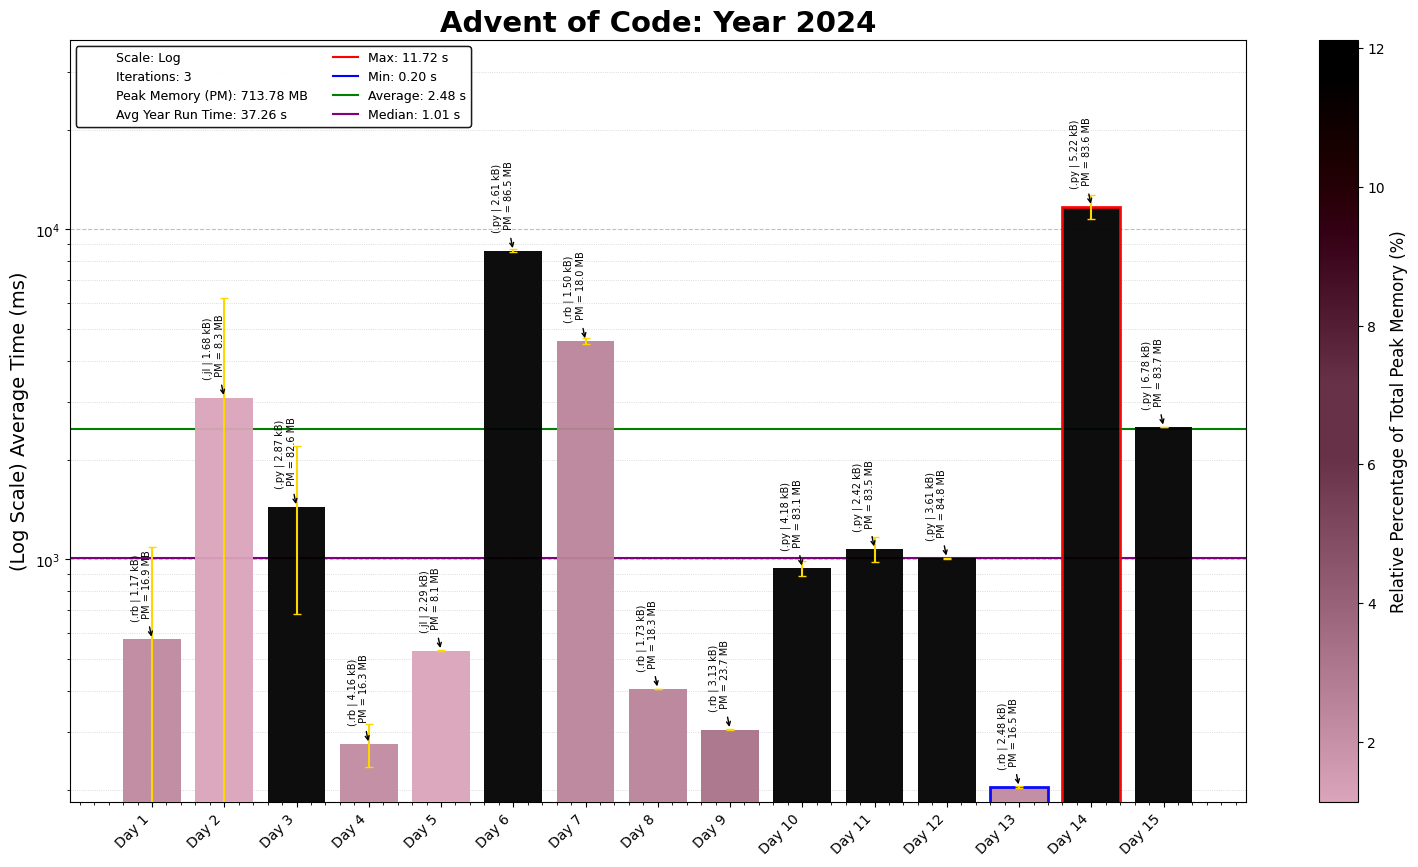
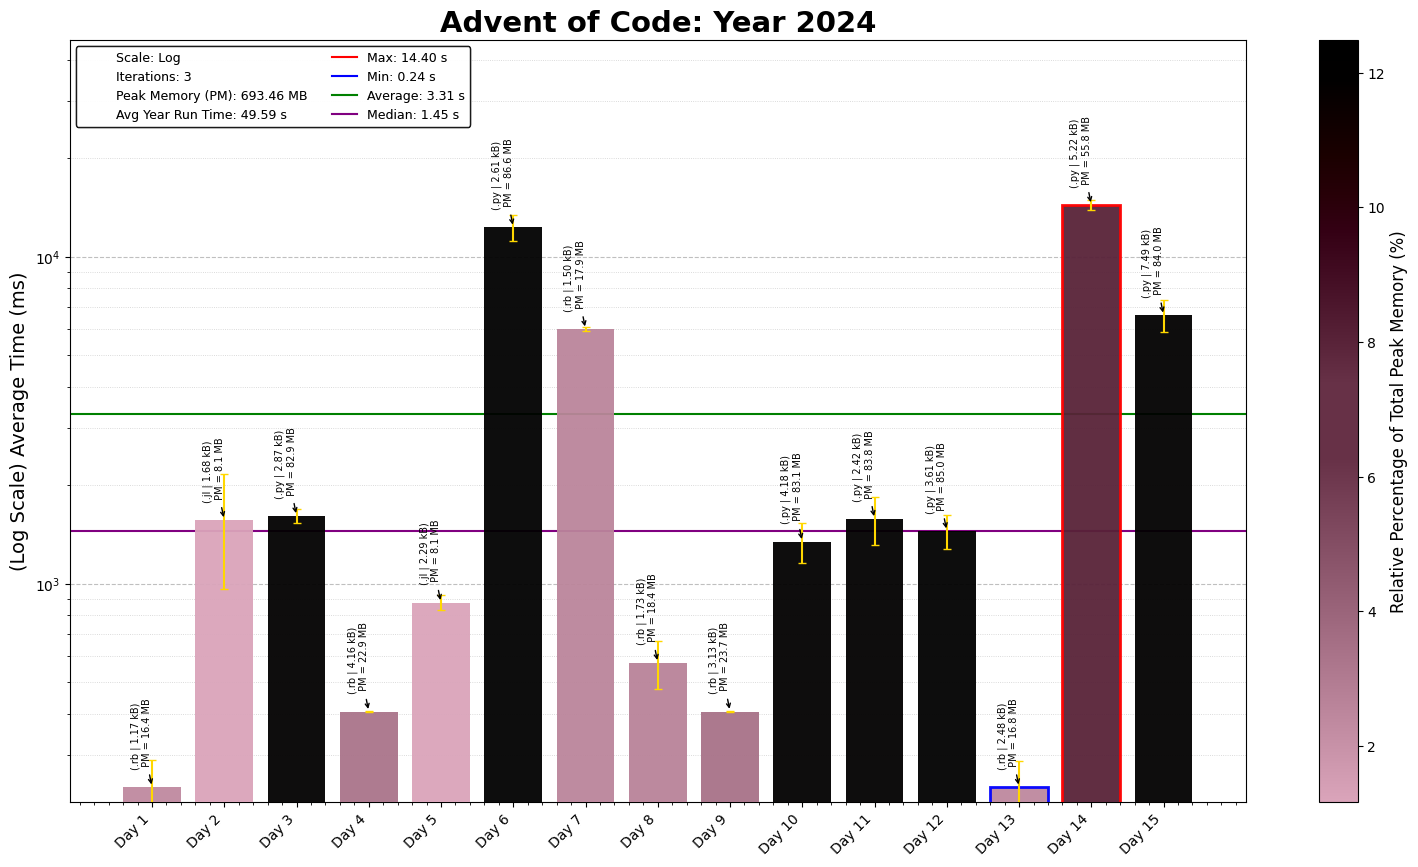
2024 Day 15 P2

diff --git a/2024/15/2024Day15.py b/2024/15/2024Day15.py
@@ -2,7 +2,7 @@
 Solution Started: Dec 15, 2024
 Puzzle Link: https://adventofcode.com/2024/day/15
 Solution by: abbasmoosajee07
-Brief: [Code/Problem Description]
+Brief: [Moving Boxes w/ Robots]
 """
 
 #!/usr/bin/env python3
@@ -23,96 +23,134 @@ with open(D15_file_path) as file:
 def parse_input(input):
     map_input = input[0].split('\n')
     movements = list(input[1].replace('\n',''))
-    grid_map  = np.array([list(row) for row in map_input], dtype=object)
-    total_rows, total_cols = len(grid_map), len(grid_map[0])
-    empty_map = [['.' for _ in range(total_cols)] for _ in range(total_rows)]
-    box_count = 0
-
+    standard_map  = np.array([list(row) for row in map_input], dtype=object)
+    total_rows, total_cols = len(standard_map), len(standard_map[0])
+    extended_map = [['.' for _ in range(total_cols)] for _ in range(total_rows)]
     # Assuming start and end is on the border
-    for row_index, row in enumerate(grid_map):
+    for row_index, row in enumerate(standard_map):
         for col_index, cell in enumerate(row):
-            if grid_map[row_index][col_index] == '#':
-                empty_map[row_index][col_index] = grid_map[row_index][col_index]
             if cell == '@':
-                robot = (row_index, col_index)
+                start_p1 = (row_index, col_index)
+            if cell == '#':
+                extended_map[row_index][col_index] = '##'
             if cell == 'O':
-                box_count += 1
+                extended_map[row_index][col_index] = '[]'
+            if cell == '.':
+                extended_map[row_index][col_index] = '..'
+            if cell == '@':
+                extended_map[row_index][col_index] = '@.'
+    expanded_map = np.array([list(''.join(row)) for row in extended_map], dtype=object)
 
-
-    return empty_map, grid_map, movements, box_count, robot
+    start_p2 = (start_p1[0],2*start_p1[1])
+    return expanded_map, standard_map, start_p1, start_p2, movements
 
 def calculate_box_GPS(map):
     gps_sum = 0
     for row_no, row in enumerate(map):
         for col_no, char in enumerate(row):
-            if char == 'O':
+            if char in ['O','[']:
                 box_gps = (100 * row_no) + col_no
-                # print(f"{row_no=}, {col_no=}, {box_gps=}")
                 gps_sum += box_gps
     return gps_sum
 
+def move_boxes(map, robot_pos, dr, dc):
+
+    new_map = copy.deepcopy(map)
+    robot_stop = (robot_pos[0] + dr, robot_pos[1] + dc)
+    box_dict = {}
+
+    # Identify the target row/column and collect boxes in the path
+    if dr == 0 and abs(dc) == 1:  # Horizontal movement
+        target_idx = robot_pos[0]
+        target_row = map[target_idx]
+        if dc == 1:
+            row_end = len(target_row)
+        elif dc == -1:
+            row_end = 0
+        for col_idx in range(robot_pos[1] + dc, row_end, dc):
+            char = target_row[col_idx]
+            if char in ['O','[',']']:
+                box_dict[(target_idx, col_idx)] = char
+            elif char in ['#', '@']:
+                break
+            else:
+                break
+
+    elif dc == 0 and abs(dr) == 1:  # Vertical movement
+        def move_box_columns(map, box, dr):
+            box_columns = {}
+            row, col = box
+            new_row = row + dr
+
+            # Ensure movement is within bounds
+            if 0 <= new_row < len(map):
+                # Check for the trailing part of the box (`[`, `]`)
+                if map[new_row][col] == ']':  # Box's right side
+                    adjacent_pos = (new_row, col - 1)  # Left side of the box
+                    box_columns[(new_row, col)] = map[new_row][col]
+                    box_columns[adjacent_pos] = map[adjacent_pos]
+                elif map[new_row][col] == '[':  # Box's left side
+                    adjacent_pos = (new_row, col + 1)  # Right side of the box
+                    box_columns[(new_row, col)] = map[new_row][col]
+                    box_columns[adjacent_pos] = map[adjacent_pos]
+                elif map[new_row][col] == 'O':  # Single box
+                    box_columns[(new_row, col)] = map[new_row][col]
+
+            return box_columns
+
+        # Add the robot's current position and the item at that position to box_dict
+        box_dict[robot_stop] = map[robot_stop[0]][robot_stop[1]]
+
+        # Move the adjacent box and update the box dictionary
+        adjacent_box = move_box_columns(map, robot_pos, dr)
+        box_dict.update(adjacent_box)
+        check_boxes = list(box_dict.keys())
+        # print(check_boxes)
+        # Process each box in box_check
+        while check_boxes:  # Use a while loop since we'll dynamically modify box_check
+            # Get the first box position to process
+            test_box = check_boxes.pop(0)
+
+            # Move the box in the column (the function should return updated positions for boxes)
+            box_column = move_box_columns(map, test_box, dr)
+
+            # Extend box_check with new box positions from box_column
+            check_boxes.extend(box_column.keys())
+
+            # Update the box_dict with the new positions of the boxes
+            box_dict.update(box_column)
+
+        # print(box_dict)
+    # Check if the last box can move
+    if box_dict:
+        # Get the last box's position from the dictionary
+        last_pos = list(box_dict.keys())[-1]  # Get the last key (position)
+        last_row, last_col = last_pos
+        next_row, next_col = last_row + dr, last_col + dc
+
+        # Check if the next position is within bounds
+        if not (0 <= next_row < len(map) and 0 <= next_col < len(map[0])):
+            return new_map, robot_pos  # Path is out of bounds
+
+        # Check if the path is blocked
+        if map[next_row][next_col] != '.':
+            return new_map, robot_pos  # Path is blocked
+
+        for (box_row, box_col) in list(box_dict.keys())[::-1]:
+            wall_check = map[box_row + dr][box_col + dc]
+            if wall_check ==  '#':
+                return new_map, robot_pos
+        # Move boxes
+        for (box_row, box_col) in list(box_dict.keys())[::-1]:
+            new_map[box_row + dr][box_col + dc] = box_dict[(box_row,box_col)]  # Move box forward
+            new_map[box_row][box_col] = '.'  # Clear old box position
+        # Update robot position
+        new_map[robot_pos[0]][robot_pos[1]] = '.'  # Clear old position
+        new_map[robot_stop[0]][robot_stop[1]] = '@'  # Move robot to the new position
+
+    return new_map, robot_stop
+
 def move_robot(map, movement, robot_start):
-
-    def move_boxes(map, robot_pos, dr, dc):
-            new_map = copy.deepcopy(map)
-            robot_stop = (robot_pos[0] + dr, robot_pos[1] + dc)
-            box_list = []
-
-            # Identify the target row/column and collect boxes in the path
-            if dr == 0 and abs(dc) == 1:  # Horizontal movement
-                target_idx = robot_pos[0]
-                target_row = map[target_idx]
-                if dc == 1:
-                    row_end = len(target_row)
-                elif dc == -1:
-                    row_end = 0
-                for col_idx in range(robot_pos[1] + dc, row_end, dc):
-                    char = target_row[col_idx]
-                    if char == 'O':
-                        box_list.append((target_idx, col_idx))
-                    elif char in ['#', '@', 'O']:
-                        break
-                    else:
-                        break
-
-            elif dc == 0 and abs(dr) == 1:  # Vertical movement
-                target_idx = robot_pos[1]
-                target_col = [row[target_idx] for row in map]
-                if dr == 1:
-                    col_end = len(target_col)
-                elif dr == -1:
-                    col_end = 0
-                for row_idx in range(robot_pos[0] + dr, col_end, dr):
-                    char = target_col[row_idx]
-                    if char == 'O':
-                        box_list.append((row_idx, target_idx))
-                    elif char in ['#', '@', 'O']:
-                        break
-                    else:
-                        break
-
-            # Check if the last box can move
-            if box_list:
-                last_row, last_col = box_list[-1]
-                next_row, next_col = last_row + dr, last_col + dc
-
-                if not (0 <= next_row < len(map) and 0 <= next_col < len(map[0])):
-                    return new_map, robot_pos  # Path is out of bounds
-
-                if map[next_row][next_col] != '.':
-                    return new_map, robot_pos  # Path is blocked
-
-                # Move boxes
-                for box_row, box_col in reversed(box_list):
-                    new_map[box_row + dr][box_col + dc] = 'O'  # Move box forward
-                    new_map[box_row][box_col] = '.'  # Clear old box position
-
-            # Update robot position
-            new_map[robot_pos[0]][robot_pos[1]] = '.'  # Clear old position
-            new_map[robot_stop[0]][robot_stop[1]] = '@'  # Move robot to the new position
-
-            return new_map, robot_stop
-
     # Define movement directions: (row_delta, col_delta)
     DIRECTIONS = {'^': (-1, 0), '>': (0, 1), 'v': (1, 0), '<': (0, -1)}
     dr, dc = DIRECTIONS[movement]
@@ -124,41 +162,25 @@ def move_robot(map, movement, robot_start):
             map[new_row][new_col] = '@'  # Mark new robot position
             map[robot_start[0]][robot_start[1]] = '.'  # Clear old position
             return map, (new_row, new_col)
-        elif map[new_row][new_col] == 'O':  # Special action on obstacle
+        elif map[new_row][new_col] in ['O','[',']']:  # Special action on obstacle
             new_map, robot_stop = move_boxes(map, robot_start, dr, dc)
             return new_map, robot_stop  # Reset to empty map
 
     # Return the unchanged map and position if the move is invalid
     return map, robot_start
 
-test_input_1 = ['########\n#..O.O.#\n##@.O..#\n#...O..#\n#.#.O..#\n#...O..#\n#......#\n########', '<^^>>>vv<v>>v<<']
-
-test_input_2 = ['##########\n#..O..O.O#\n#......O.#\n#.OO..O.O#\n#..O@..O.#\n#O#..O...#\n#O..O..O.#\n#.OO.O.OO#\n#....O...#\n##########',
-                '<vv>^<v^>v>^vv^v>v<>v^v<v<^vv<<<^><<><>>v<vvv<>^v^>^<<<><<v<<<v^vv^v>^\nvvv<<^>^v^^><<>>><>^<<><^vv^^<>vvv<>><^^v>^>vv<>v<<<<v<^v>^<^^>>>^<v<v\n><>vv>v^v^<>><>>>><^^>vv>v<^^^>>v^v^<^^>v^^>v^<^v>v<>>v^v^<v>v^^<^^vv<\n<<v<^>>^^^^>>>v^<>vvv^><v<<<>^^^vv^<vvv>^>v<^^^^v<>^>vvvv><>>v^<<^^^^^\n^><^><>>><>^^<<^^v>>><^<v>^<vv>>v>>>^v><>^v><<<<v>>v<v<v>vvv>^<><<>^><\n^>><>^v<><^vvv<^^<><v<<<<<><^v<<<><<<^^<v<^^^><^>>^<v^><<<^>>^v<v^v<v^\n>^>>^v>vv>^<<^v<>><<><<v<<v><>v<^vv<<<>^^v^>^^>>><<^v>>v^v><^^>>^<>vv^\n<><^^>^^^<><vvvvv^v<v<<>^v<v>v<<^><<><<><<<^^<<<^<<>><<><^^^>^^<>^>v<>\n^^>vv<^v^v<vv>^<><v<^v>^^^>>>^^vvv^>vvv<>>>^<^>>>>>^<<^v>^vvv<>^<><<v>\nv^^>>><<^^<>>^v^<v^vv<>v^<<>^<^v^v><^<<<><<^<v><v<>vv>>v><v^<vv<>v^<<^']
-
-EMPTY_MAP, past_map, movement_list, BOX_COUNT, robot_previous = parse_input(input_data)
+map_p2, map_p1, robot_p1, robot_p2, movement_list = parse_input(input_data)
 
 # Iterate through the movement list
 for movement in movement_list[:]:
+
     # Move the robot and get the updated map and position
-    past_map, robot_previous = move_robot(past_map, movement, robot_previous)
+    map_p1, robot_p1 = move_robot(map_p1, movement, robot_p1)
 
-    # Display the movement and updated map
-    # print(f"Movement: {movement}")
-    # for row in past_map:
-    #     print(''.join(row))
+    map_p2, robot_p2 = move_robot(map_p2, movement, robot_p2)
 
-
-ans_p1 = calculate_box_GPS(past_map)
+ans_p1 = calculate_box_GPS(map_p1)
 print("Part 1:", ans_p1)
 
-##########
-#.O.O.OOO#
-#........#
-#OO......#
-#OO@.....#
-#O#.....O#
-#O.....OO#
-#O.....OO#
-#OO....OO#
-##########
+ans_p2 = calculate_box_GPS(map_p2)
+print("Part 2:", ans_p2)

diff --git a/2024/README_2024.md b/2024/README_2024.md
@@ -16,9 +16,6 @@ This repository contains coding solutions for the 2024 Advent of Code. Its the f
 10. **Day 10- Hoof it**: *Python* | Simple BFS to find all valid paths on a 2d grid. Pretty standard algorithm that i adapted.
 11. **Day 11- Plutonian Pebbles**: *Python* | Exponentially increasing lists, that becomes way more easy to solve when you switch to dictionaries and counters.
 12. **Day 12- Garden Groups**: ** | Pretty simple neighbour searching algorithm, with some added complexity for finding perimeter and areas, Part 2 was kinda tough but got it in the end
-<<<<<<< HEAD
 13. **Day 13- Claw Contraption**: *Ruby* | Solving simultaneous equations, fairly simple ad could have solved it far faster if i simply used round instead of int from the start, but lesson learned
 14. **Day 14- Restroom Redoubt**: *Python* | Particle Tracking in a grid, which was fairly simple, but finding the easter egg convinced me I never looked for one
-=======
-13. **Day 13- Claw Contraption**: *Ruby* | Solving simultaneous equations, fairly simple ad could have solved it far faster if i simply used round instead of int from the start, but lesson learned
->>>>>>> 2230fda10c79e5310adcebdd2124fe33ec9aa236
+15. **Day 15- Warehouse Woes**: *Python* | Moving elements in a grid according to a set of instructions, seems complicated but fairly manageable, once you work out a couple of edge cases. Not the most elegant solution, but definitely one of my favourite ones overall.
